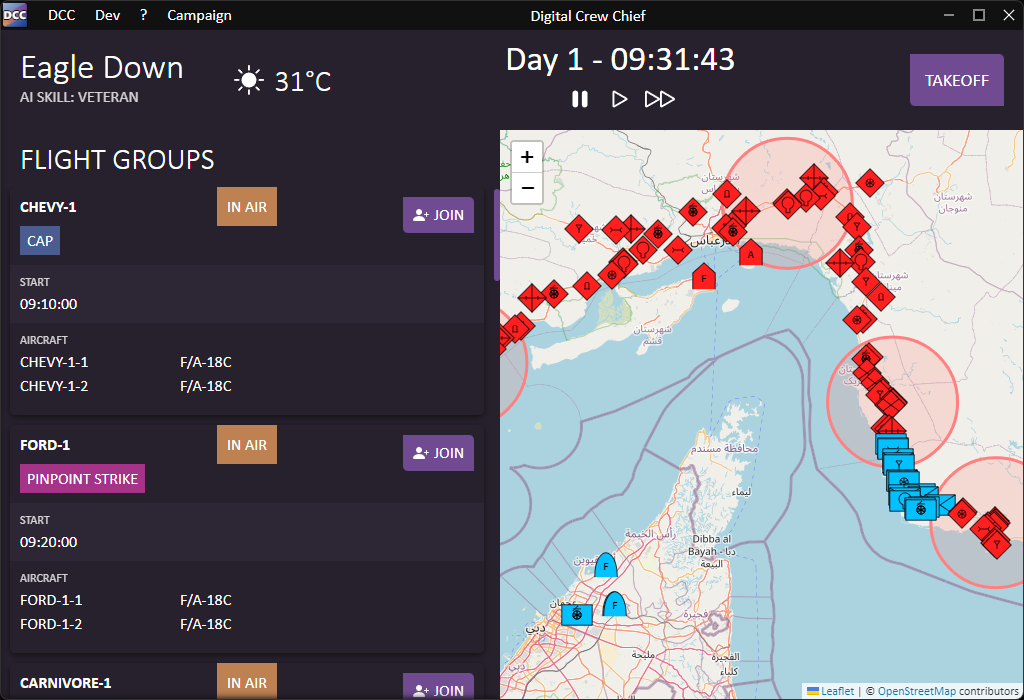
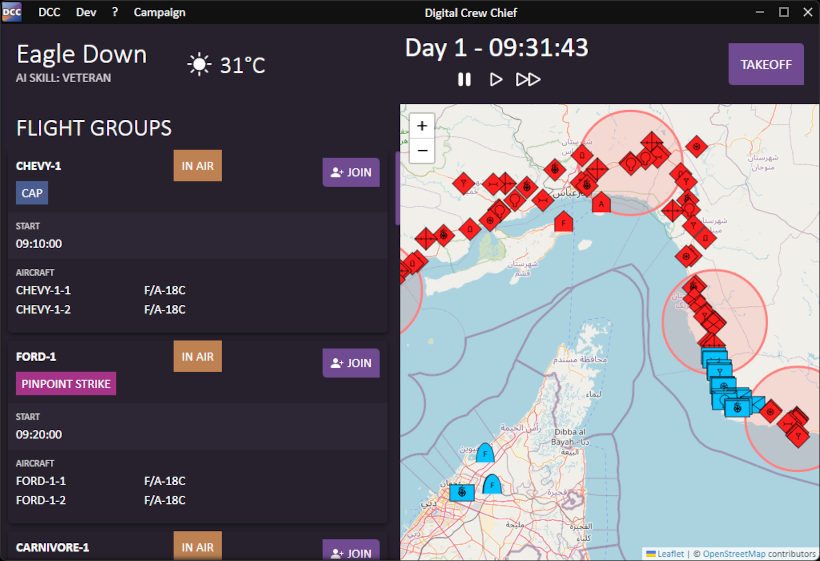
fix(web): compress images

diff --git a/packages/web/src/components/Header.tsx b/packages/web/src/components/Header.tsx
@@ -11,7 +11,7 @@ import {
 import { Button } from "./ui/button";
 import discord from "../images/discord.svg";
 import github from "../images/github.svg";
-import icon from "../images/icon.png";
+import icon from "../images/icon-2.webp";
 
 import { cn, discordUrl, downloadUrl } from "../lib/utils";
 import { Database, Github } from "lucide-react";

diff --git a/packages/web/src/pages/docs.md b/packages/web/src/pages/docs.md
@@ -59,7 +59,7 @@ Still in early development we currently only offer a dynamic campaign, but more 
 Campaign Mode for Digital Combat Simulator(DCS) inspired by Falcon BMS and Liberation
 ---no configuration, just fly---
 
-![App Screenshot](../images/campaign-2.png)
+![App Screenshot](../images/campaign-2.webp)
 
 ## How does the Campaign work
 The campaign is defined by two definition, Scenario and faction.
